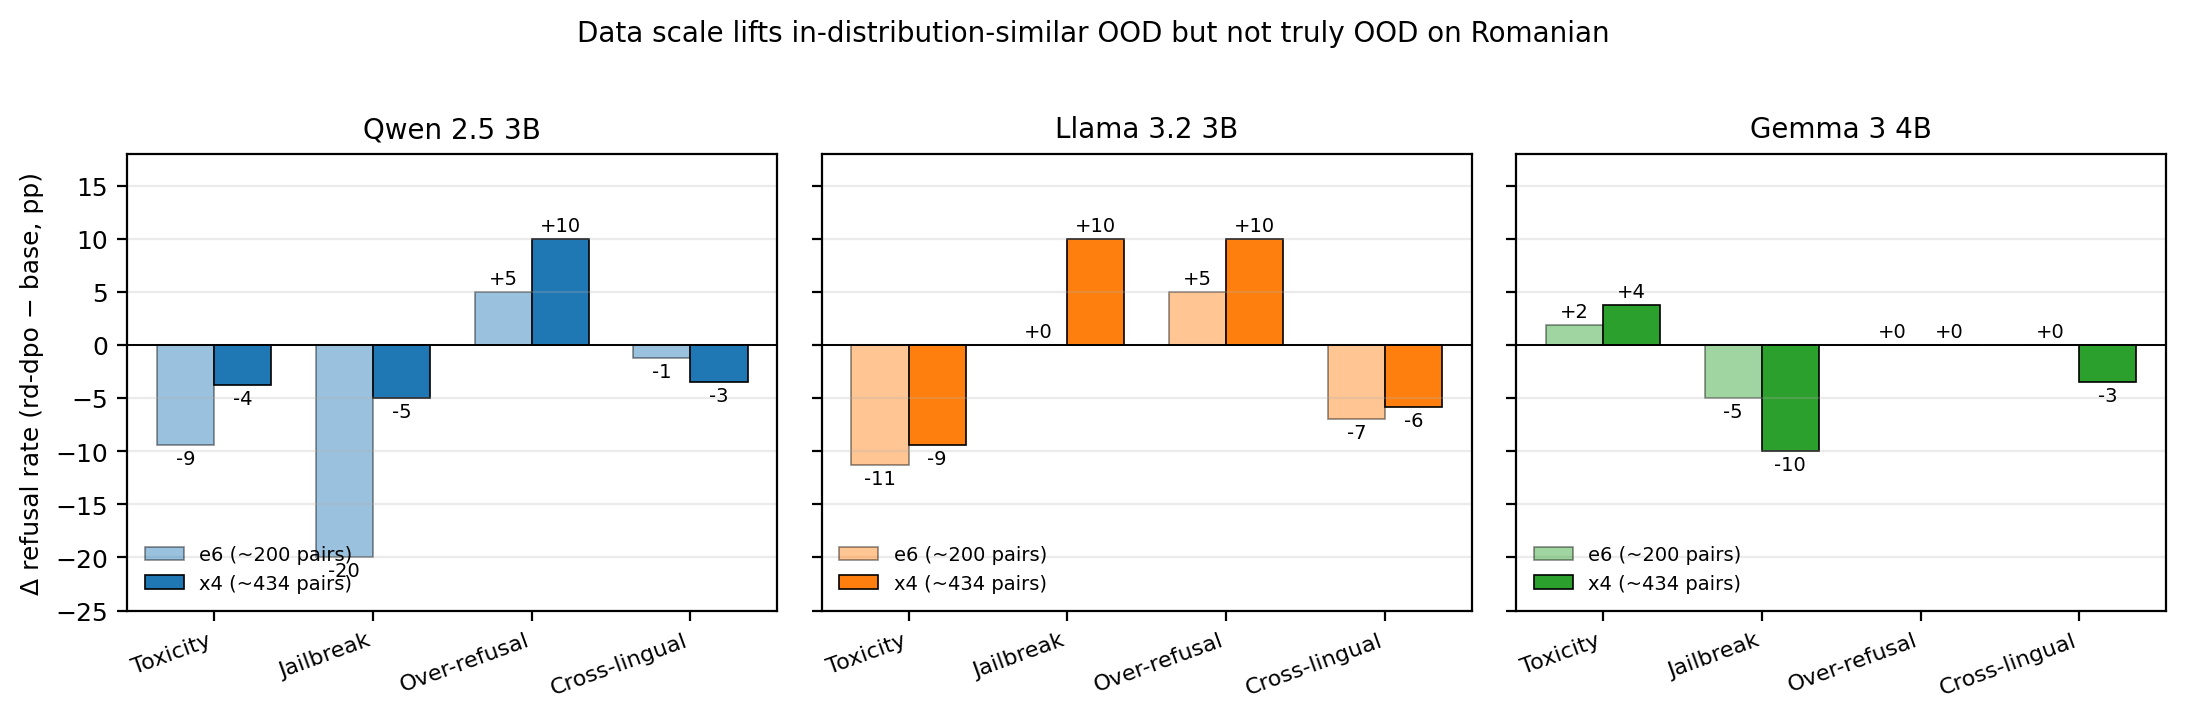
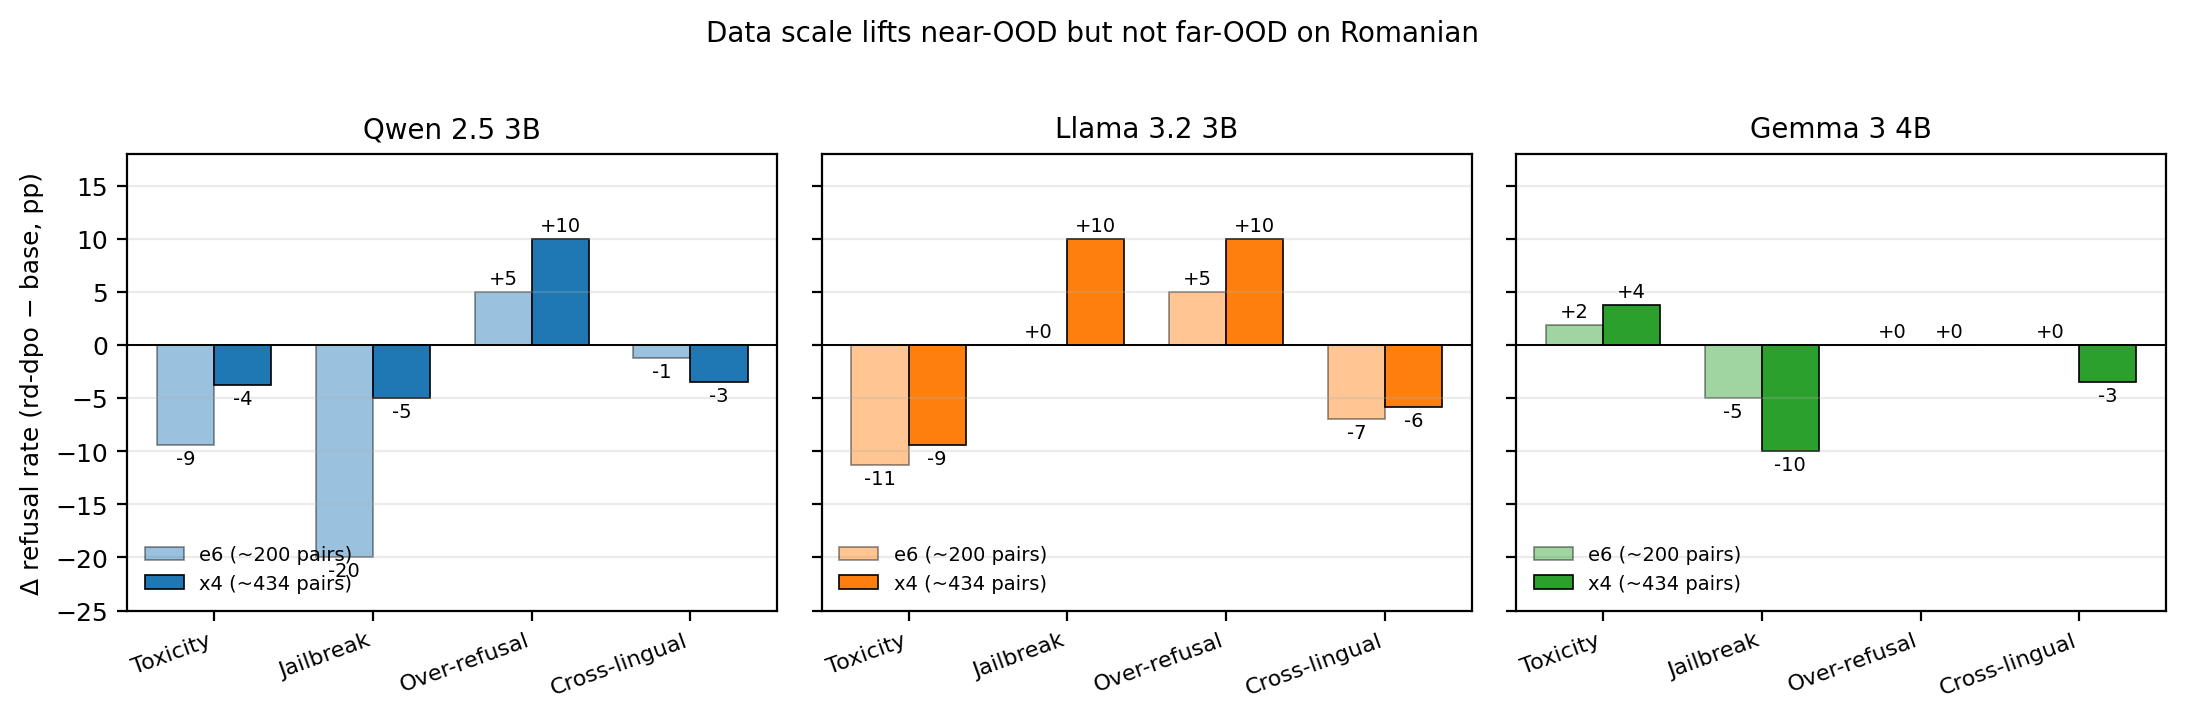
figures: rename fig4 title to near-OOD/far-OOD terminology
Aligns the fig4-x4-dissociation suptitle with the v1.1 manuscript
terminology change (in-distribution-similar OOD -> near-OOD; truly
OOD -> far-OOD). Affects the suptitle only; data and panel layout
unchanged. Regenerates fig4-x4-dissociation.pdf and .png to match.

Changed region(s): [[0.2489, 0.0306, 0.7466, 0.0613]]

diff --git a/figures/make_figures.py b/figures/make_figures.py
@@ -329,8 +329,8 @@ def fig_toxicity_vs_lr():
 
 
 # ---------------------------------------------------------------------------
-# Figure 4: data scale lifts in-distribution-similar OOD (toxicity) but not
-# truly OOD (cross-lingual). Two-panel comparison at the e6 baseline (~200
+# Figure 4: data scale lifts near-OOD (toxicity) but not far-OOD
+# (cross-lingual). Two-panel comparison at the e6 baseline (~200
 # pairs/anchor, locked LR per anchor) versus the x4 expansion (~434
 # pairs/anchor, same LR per anchor). Every cell is delta-vs-base on the
 # Paper 3 holdout split.
@@ -395,8 +395,8 @@ def fig_x4_dissociation():
 
     axes[0].set_ylabel("Δ refusal rate (rd-dpo − base, pp)")
 
-    fig.suptitle("Data scale lifts in-distribution-similar OOD but not "
-                 "truly OOD on Romanian", fontsize=10)
+    fig.suptitle("Data scale lifts near-OOD but not far-OOD on Romanian",
+                 fontsize=10)
     fig.tight_layout(rect=[0, 0, 1, 0.96])
 
     for out_dir in (FIGS_REPO, FIGS_MS):